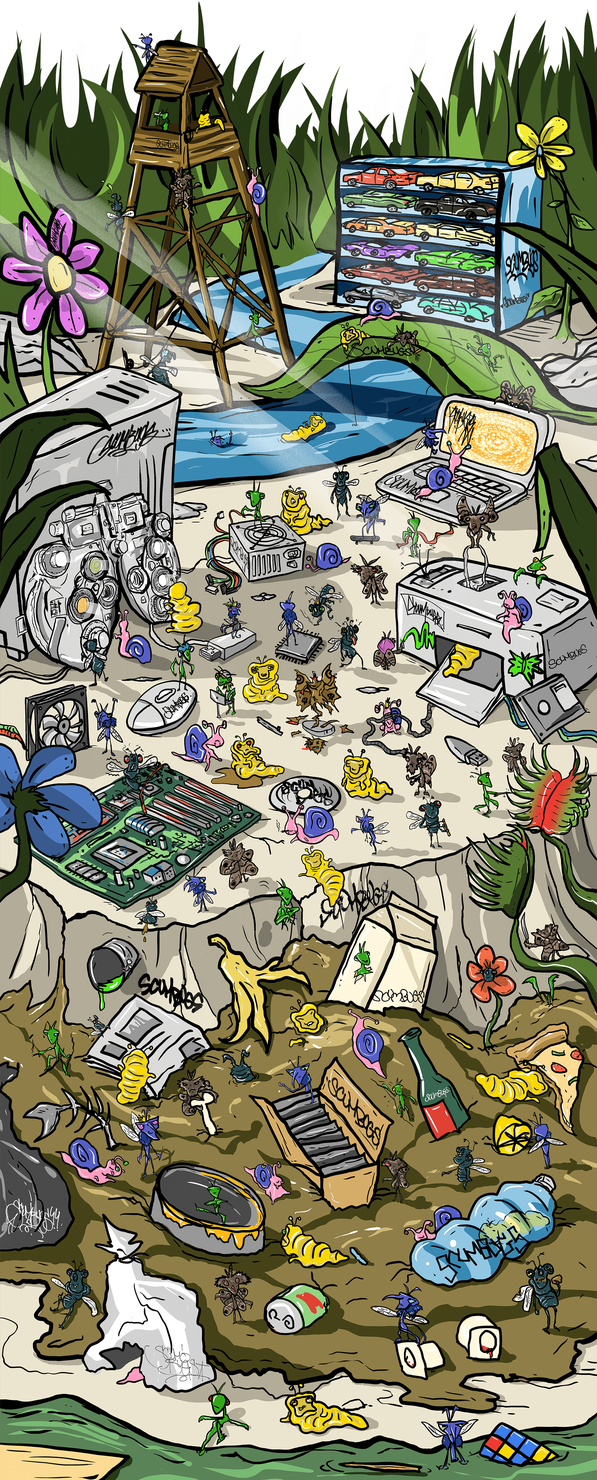
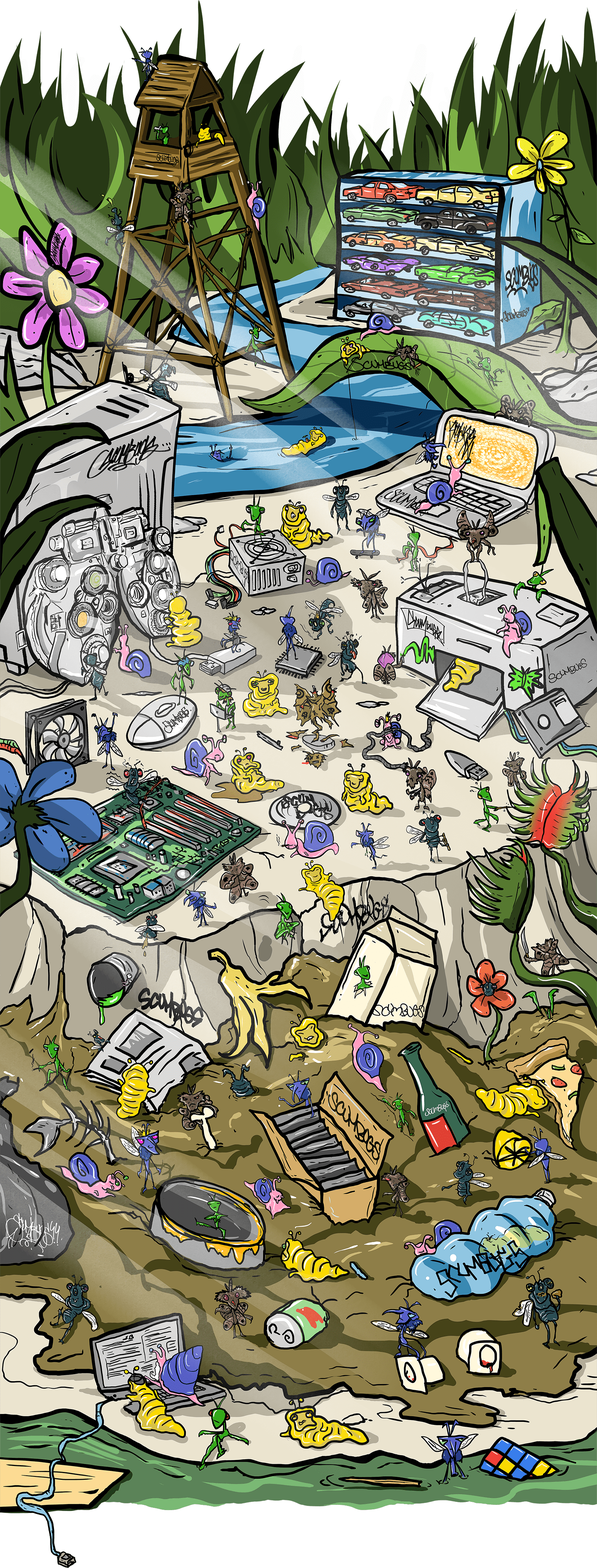
Compressed main scene imgs and added sticky effect to scumbugs section

diff --git a/src/components/Scene.vue b/src/components/Scene.vue
@@ -1,36 +1,42 @@
 <template>
-  <section class="scene">
-    <div class="scene__button_container">
-      <h1 class="scene__title">
-        Once upon a time, deep in the sun-kissed meadow...
-      </h1>
+  <section class="content">
+    <div class="content__scroller" ref="scroll">
+      <div class="content__scroller__inner" ref="scrollInner">
+        <section class="scene">
+          <div class="scene__button_container">
+            <h1 class="scene__title">
+              Once upon a time, deep in the sun-kissed meadow...
+            </h1>
+          </div>
+          <div class="scene__top">
+            <ResponsiveImage
+              :sources="topScene"
+              :on-image-loaded="
+                () => {
+                  topSceneLoaded = true;
+                }
+              "
+            />
+          </div>
+          <div class="scene__main">
+            <ResponsiveImage
+              :sources="mainScene"
+              :on-image-loaded="
+                () => {
+                  mainSceneLoaded = true;
+                }
+              "
+            />
+          </div>
+        </section>
+        <Origin />
+      </div>
     </div>
-    <div class="scene__top">
-      <ResponsiveImage
-        :sources="topScene"
-        :on-image-loaded="
-          () => {
-            topSceneLoaded = true;
-          }
-        "
-      />
-    </div>
-    <div class="scene__main">
-      <ResponsiveImage
-        :sources="mainScene"
-        :on-image-loaded="
-          () => {
-            mainSceneLoaded = true;
-          }
-        "
-      />
-    </div>
+    <About />
+    <Roadmap />
+    <GenerativeArtwork />
+    <Team />
   </section>
-  <Origin />
-  <About />
-  <Roadmap />
-  <GenerativeArtwork />
-  <Team />
 </template>
 <script>
 import { gsap } from "gsap";
@@ -53,9 +59,9 @@ export default {
         require("@/assets/images/scene/top_scene_large.png"),
       ],
       mainScene: [
-        require("@/assets/images/scene/illu_website_main_v2.png"),
-        require("@/assets/images/scene/illu_website_main_v2.png"),
-        require("@/assets/images/scene/illu_website_main_v2.png"),
+        require("@/assets/images/scene/main_scene_mobile.png"),
+        require("@/assets/images/scene/main_scene_desktop.png"),
+        require("@/assets/images/scene/main_scene_large.png"),
       ],
       topSceneLoaded: false,
       mainSceneLoaded: false,
@@ -68,6 +74,9 @@ export default {
     GenerativeArtwork,
     Roadmap,
     Origin,
+  },
+  mounted() {
+    window.addEventListener('resize', this.setScrollerHeight())
   },
   methods: {
     initializeGsap() {
@@ -88,23 +97,35 @@ export default {
 
       gsap.to(".scene__top", {
         opacity: 0,
-        // height: '10vh',
         ease: "none",
         scrollTrigger: {
           trigger: ".scene",
           start: "top top",
           end: "30% top",
-          // markers: true,
           scrub: true,
+        },
+      });
+
+      gsap.to(".content__scroller", {
+        ease: "none",
+        scrollTrigger: {
+          trigger: ".content__scroller",
+          start: "bottom bottom",
+          end: "bottom top",
+          toggleClass: "content__scroller--sticky",
         },
       });
     },
     enabledScroll() {
       if (this.topSceneLoaded && this.mainSceneLoaded) {
         this.initializeGsap();
+        this.setScrollerHeight();
         document.body.style.overflow = "auto";
       }
     },
+    setScrollerHeight() {
+      this.$refs.scroll.style.height = `${this.$refs.scrollInner.clientHeight}px`;
+    }
   },
   watch: {
     topSceneLoaded() {
@@ -123,6 +144,22 @@ export default {
 <style lang="scss">
 @import "@/assets/scss/variables";
 @import "@/assets/scss/mixins";
+
+.content {
+  position: relative;
+
+  &__scroller {
+    position: relative;
+
+    &--sticky {
+      .content__scroller__inner {
+        bottom: 0;
+        position: fixed;
+      }
+    }
+  }
+
+}
 
 .scene {
   position: relative;
@@ -251,7 +288,8 @@ export default {
 
 .intro {
   min-height: 70vh;
-  margin-top: -20vh;
+  margin-top: -12vw;
+  padding-top: 8vw;
 }
 
 .image {
